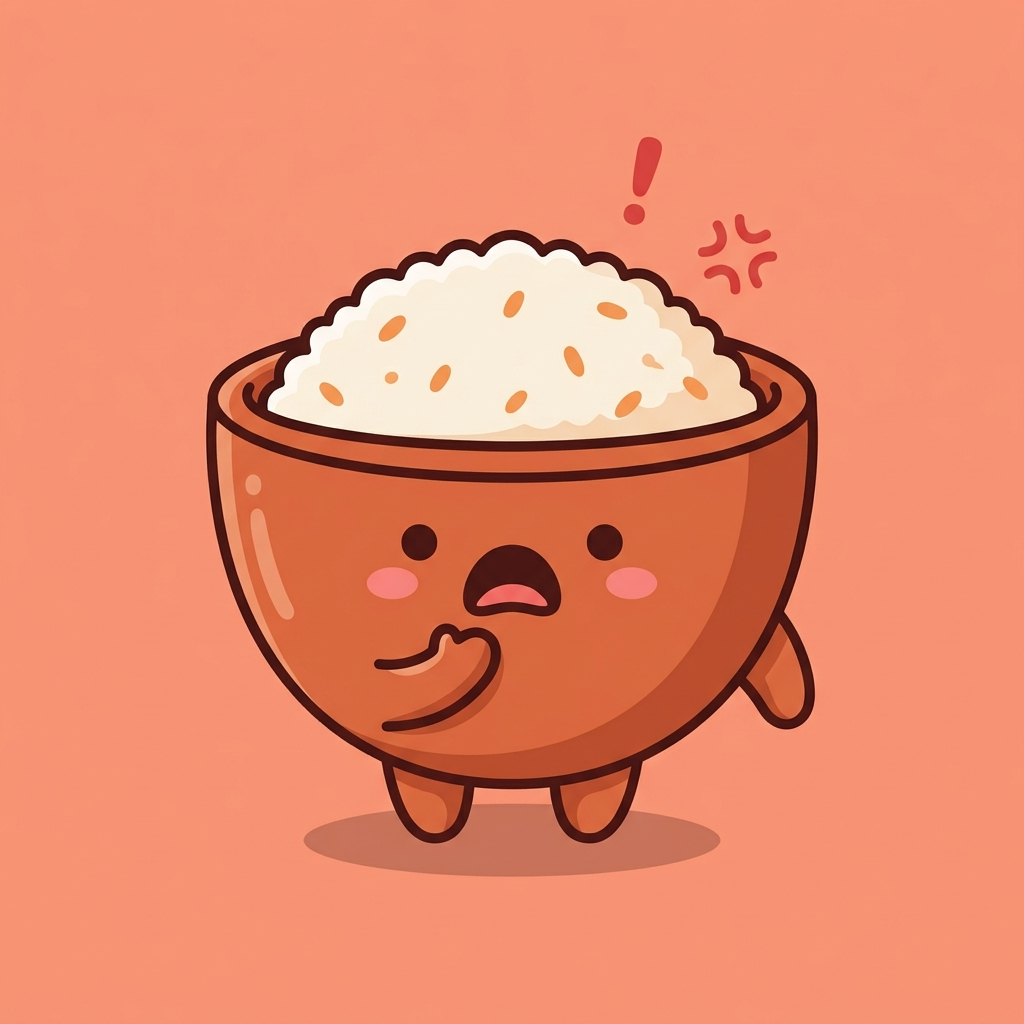
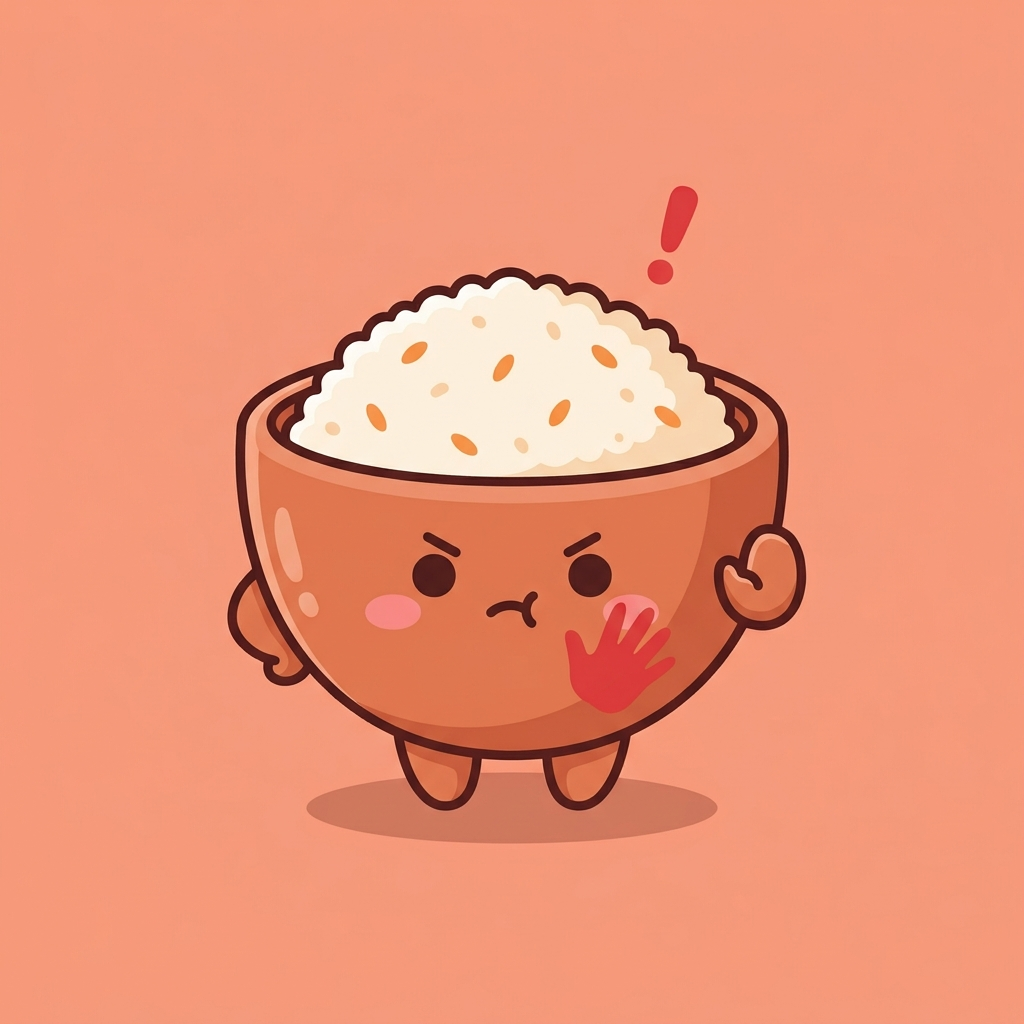
auto-commit for 4b34d086-1544-4c08-80f9-77ef74a8099f

Changed region(s): [[0.1875, 0.125, 0.8125, 0.875], [0.4688, 0.3438, 0.5, 0.375]]

diff --git a/frontend/src/constants/emotions.ts b/frontend/src/constants/emotions.ts
@@ -34,6 +34,7 @@ export const EMOTION_IMAGES: Record<string, any> = {
   unfair: require('../../assets/emotions/unfair.png'),
   supported: require('../../assets/emotions/supported.png'),
   offended: require('../../assets/emotions/offended.png'),
+  empowered: require('../../assets/emotions/empowered.png'),
   worthless: require('../../assets/emotions/worthless.png'),
   unloved: require('../../assets/emotions/unloved.png'),
   unappreciated: require('../../assets/emotions/unappreciated.png'),
@@ -61,6 +62,7 @@ export const EMOTIONS: Emotion[] = [
   { key: 'loved', label: '被愛', description: '感覺被關心緊', color: '#FFB6C1', image: EMOTION_IMAGES.loved },
   { key: 'supported', label: '被支持', description: '有人喺我身邊撐我', color: '#F4C2C2', image: EMOTION_IMAGES.supported },
   { key: 'proud', label: '自豪', description: '我做咗啲好嘢', color: '#FFF3B0', image: EMOTION_IMAGES.proud },
+  { key: 'empowered', label: '有力量', description: '我夠力面對', color: '#FFB088', image: EMOTION_IMAGES.empowered },
 
   // Common sadness / low energy
   { key: 'sad', label: '傷心', description: '心入面有種柔和嘅沉重', color: '#A2D2FF', image: EMOTION_IMAGES.sad },

diff --git a/backend/generate_emotion_icons.py b/backend/generate_emotion_icons.py
@@ -83,6 +83,10 @@ EMOTIONS = [
     ("proud",        "shiny gold",                      RICE_HEAP,
      "with a confident wide grin, one little arm raised holding a tiny golden star, a tiny sparkle above its head",
      "buttery cream"),
+    # NEW: empowered — strong, flexing bicep, confident
+    ("empowered",    "warm fiery orange",               RICE_HEAP,
+     "with a determined confident smile and slightly narrowed brave eyes, one tiny stubby arm raised up flexing a tiny cartoon bicep muscle (a small round bump on the arm), the other tiny stubby fist clenched at its side; small orange/yellow energy sparks and one tiny lightning bolt bursting outward from its bicep area",
+     "warm butter yellow"),
 
     # ---- Sadness / low energy ----
     # sad — heart-shaped bowl with a visible crack + teardrop
@@ -182,9 +186,9 @@ EMOTIONS = [
     ("supported",    "warm coral pink",                 RICE_FULL,
      "the picture actually shows TWO mascots side by side: the LEFT main coral pink rice-bowl mascot has a gentle grateful small smile with a hint of a happy tear in one eye; the RIGHT slightly larger friend rice-bowl mascot in soft mint green has one tiny stubby arm reaching over resting kindly on the main character's shoulder/side in a supportive gesture; a couple of tiny warm pink hearts and small sparkles floating between them",
      "warm blush cream"),
-    # NEW: offended — indignant gasp, hand on chest
-    ("offended",     "burnt orange terracotta",         RICE_FULL,
-     "with a shocked gasping expression: wide open eyes with dot pupils, mouth open in a small horrified o-shape, one tiny stubby hand placed dramatically on its own chest (front of the bowl) as if saying 'excuse me?!', a small red exclamation mark above its head and a couple of red anger sparks around it",
+    # offended — reimagined: red slap-mark on cheek + indignant frown
+    ("offended",     "warm terracotta",                 RICE_FULL,
+     "with an indignant hurt expression: narrowed slightly angry eyes and a small pouty frown, a clear bright red hand-shaped SLAP MARK printed on one side of its front cheek area (as if it just got slapped or shoved), one tiny stubby hand raised in a stop 'don't you dare' gesture, a small red exclamation mark floating above its head",
      "warm salmon"),
 
     # ---- Anger / intense ----
